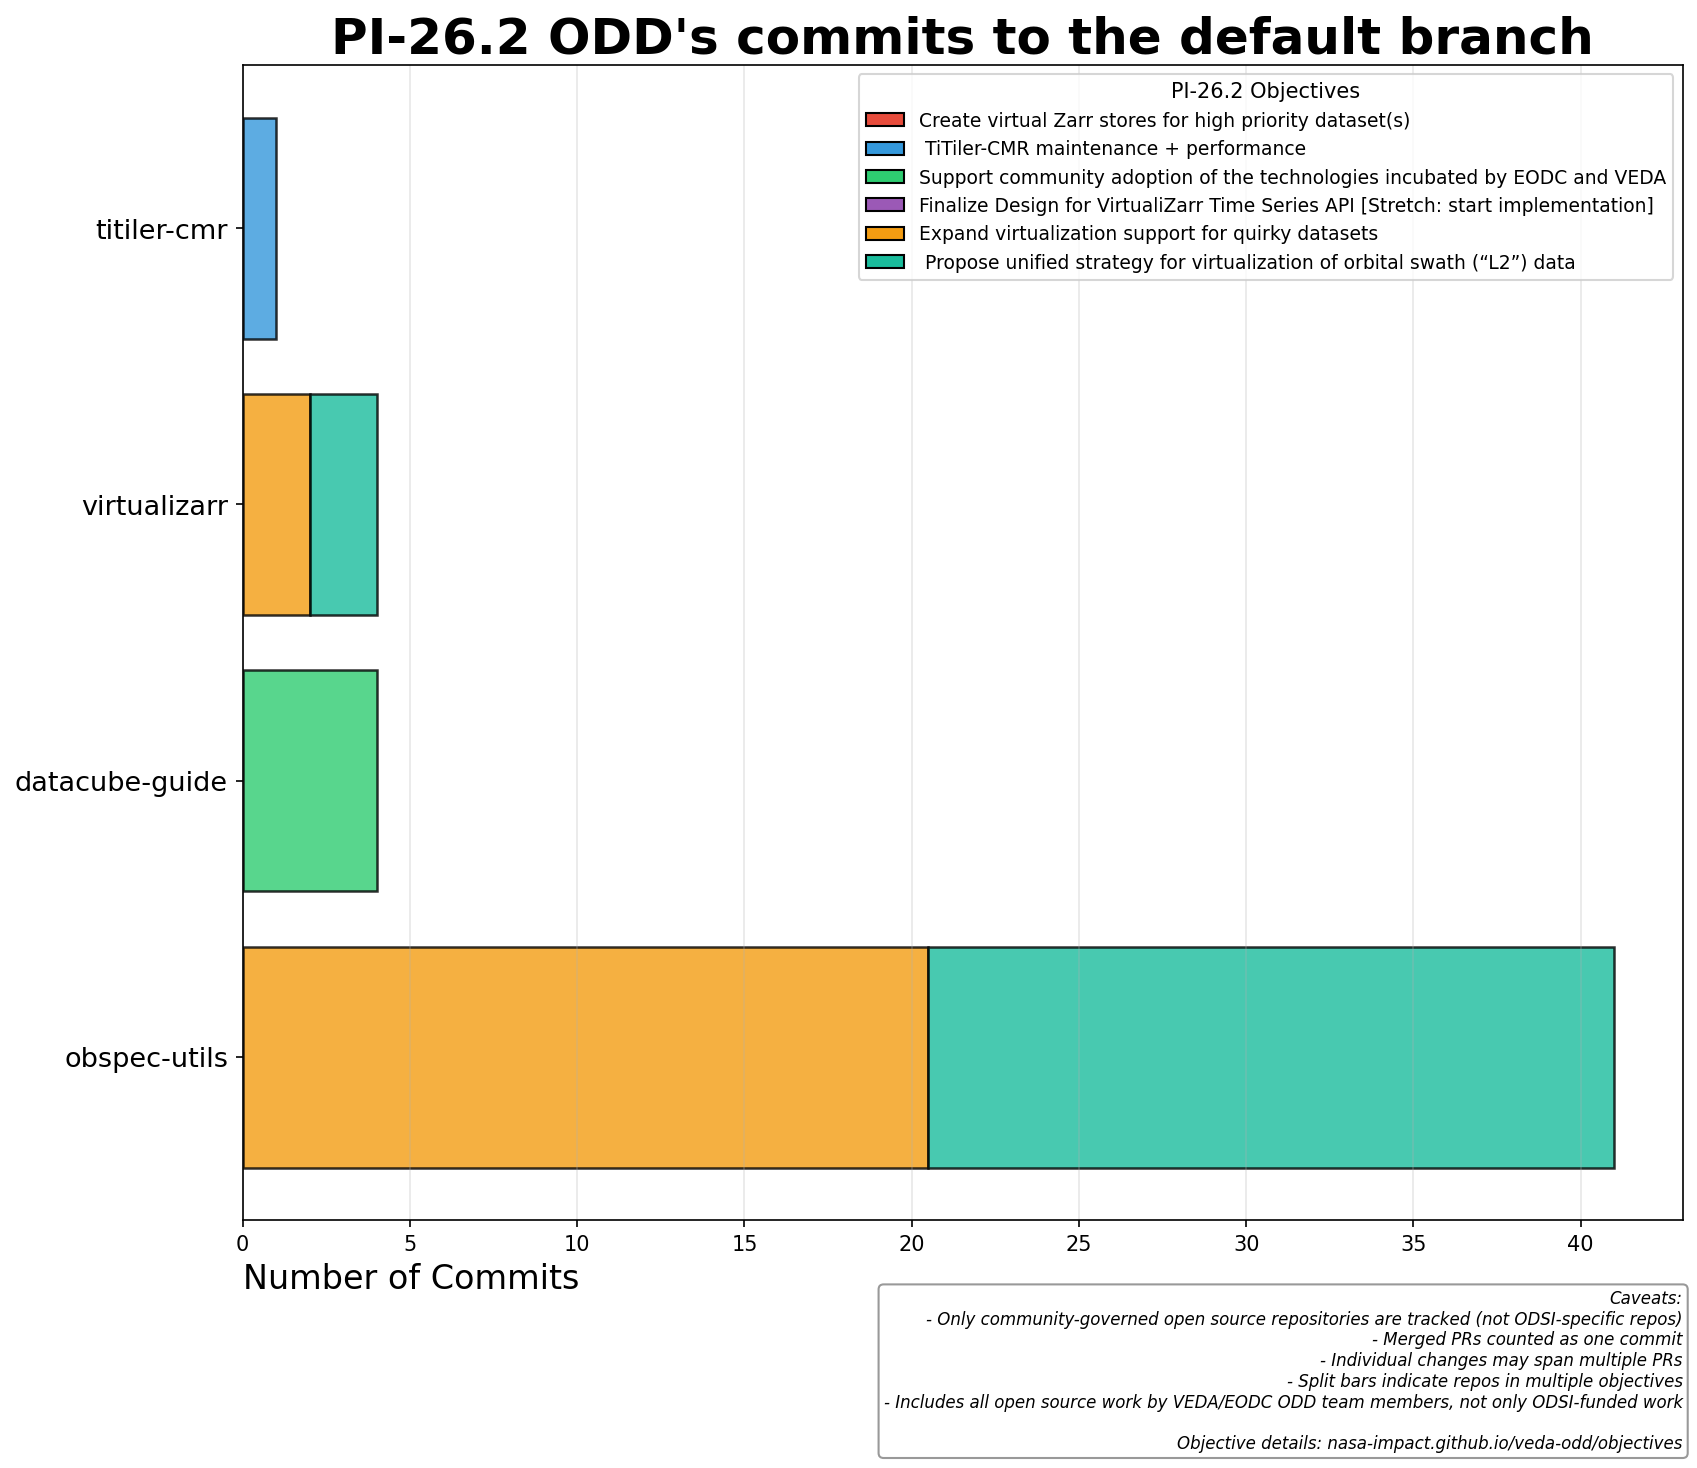
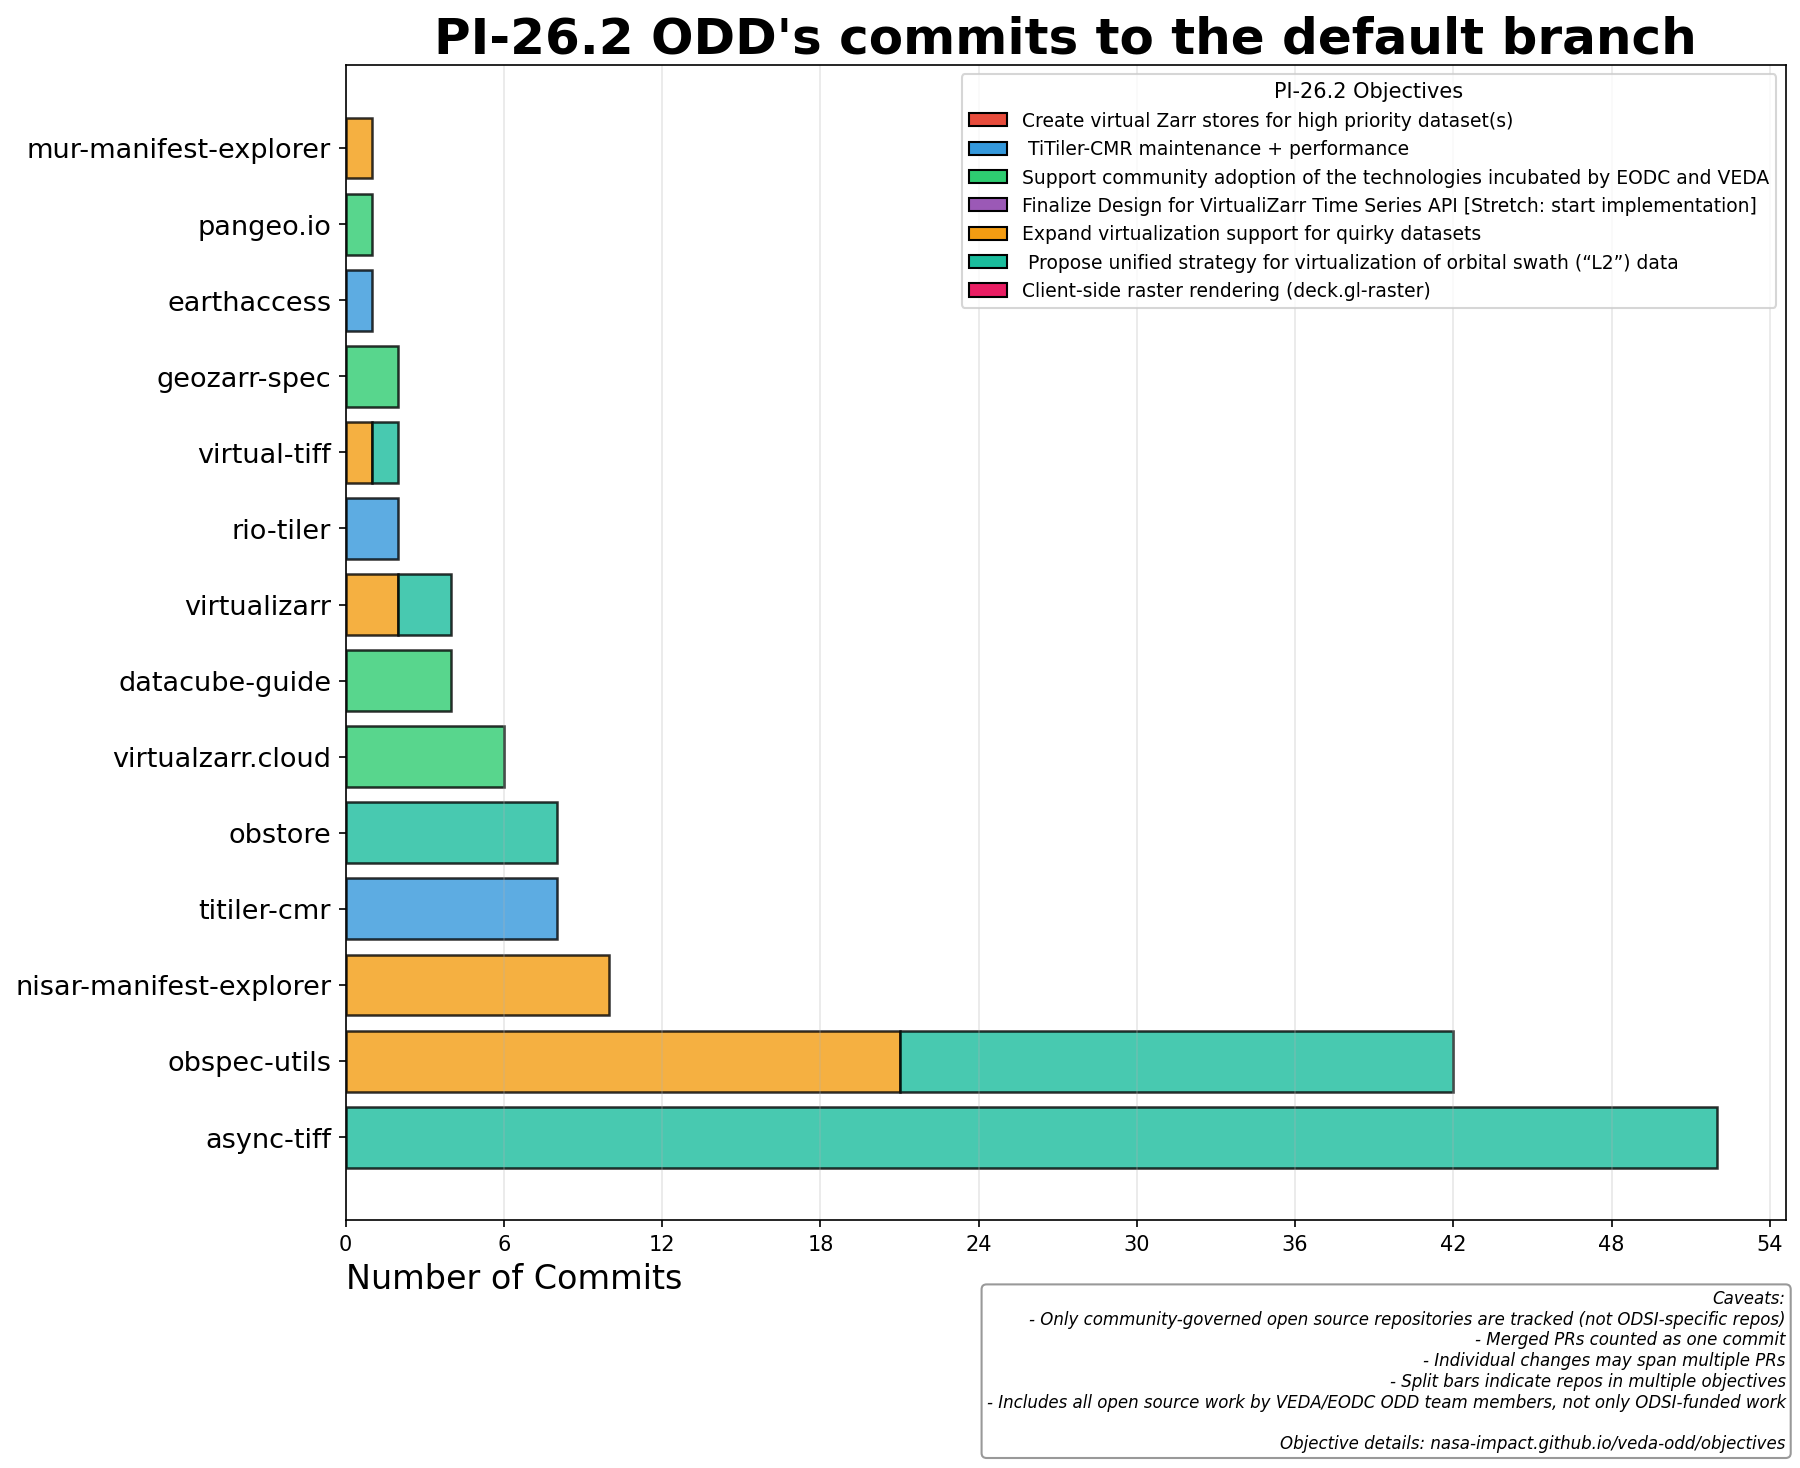
Updates for Sprint 1 (#320)

diff --git a/reports/config.py b/reports/config.py
@@ -369,10 +369,14 @@ OBJECTIVES = {
             "state": "open",
             "contributors": [
                 ("Chuck Daniels", "chuckwondo"),
+                ("Henry Rodman", "hrodmn"),
             ],
             "repos": [
                 ("developmentseed", "titiler"),
                 ("developmentseed", "titiler-cmr"),
+                ("nasa", "python_cmr"),
+                ("nsidc", "earthaccess"),
+                ("cogeotiff", "rio-tiler"),
             ],
         },
         {
@@ -380,6 +384,7 @@ OBJECTIVES = {
             "title": "ODD PI 26.2 Objective 3: 🤗 Support community adoption of the technologies incubated by EODC and VEDA",
             "state": "open",
             "contributors": [
+                ("Chuck Daniels", "chuckwondo"),
                 ("Max Jones", "maxrjones"),
                 ("Aimee Barciauskas", "abarciauskas-bgse"),
             ],
@@ -395,6 +400,7 @@ OBJECTIVES = {
                 ("pangeo-data", "pangeo.io"),
                 ("pangeo-data", "pangeo-docker-images"),
                 ("nasa-openscapes", "earthdata-cloud-cookbook"),
+                ("virtual-zarr", "virtualzarr.cloud"),
             ],
         },
         {
@@ -424,6 +430,8 @@ OBJECTIVES = {
                 ("virtual-zarr", "virtual-tiff"),
                 ("virtual-zarr", "hrrr-parser"),
                 ("developmentseed", "virtualizarr-data-pipelines"),
+                ("virtual-zarr", "nisar-manifest-explorer"),
+                ("virtual-zarr", "mur-manifest-explorer"),
             ],
         },
         {
@@ -438,6 +446,7 @@ OBJECTIVES = {
             "repos": [
                 ("zarr-developers", "virtualizarr"),
                 ("virtual-zarr", "obspec-utils"),
+                ("virtual-zarr", "virtual-tiff"),
                 ("developmentseed", "obstore"),
                 ("developmentseed", "obspec"),
                 ("developmentseed", "zarr-datafusion-search"),
@@ -445,6 +454,15 @@ OBJECTIVES = {
                 ("developmentseed", "async-tiff"),
                 ("datafusion-contrib", "arrow-zarr"),
             ],
+        },
+        {
+            "issue_number": 319,
+            "title": "ODD PI 26.2 Objective 7: Client-side raster rendering (deck.gl-raster)",
+            "state": "open",
+            "contributors": [
+                ("Kyle Barron", "kylebarron"),
+            ],
+            "repos": [],
         },
     ],
 }

diff --git a/reports/generate_config.py b/reports/generate_config.py
@@ -25,7 +25,7 @@ def get_objective_issues(g: Github, repo_name: str = "NASA-IMPACT/veda-odd"):
     query = f"repo:{repo_name} is:issue label:pi-25.2-objective,pi-25.3-objective,pi-25.4-objective,pi-26.1-objective,pi-26.2-objective,pi-26.3-objective,pi-26.4-objective"
     issues = g.search_issues(query)
 
-    if len(issues) < 1:
+    if issues.totalCount < 1:
         raise (ValueError, "No PI issue found")
     for issue in issues:
         pi = None

diff --git a/output.md b/output.md
@@ -1,0 +1,168 @@
+# Contributions: maxrjones
+**Period:** 2026-02-02..2026-02-08
+
+## Authored PRs
+
+### NASA-IMPACT/veda-odd (1 PRs)
+#311 [merged] maxrjones: Manually update config for pi-26.2
+  Created: 2026-02-02 | Closed: 2026-02-02
+  https://github.com/NASA-IMPACT/veda-odd/pull/311
+
+### developmentseed/ds-handbook (1 PRs)
+#169 [merged] maxrjones: Update who to contact for expense questions
+  Created: 2024-09-03 | Closed: 2024-09-03
+  https://github.com/developmentseed/ds-handbook/pull/169
+
+### englacial/magg (1 PRs)
+#6 [open] maxrjones: Update lambda function to write directly to zarr
+  Created: 2026-01-14 | Closed: 0001-01-01
+  https://github.com/englacial/magg/pull/6
+
+### virtual-zarr/obspec-utils (1 PRs)
+#60 [open] maxrjones: Add some NISAR exploration scripts
+  Created: 2026-01-29 | Closed: 0001-01-01
+  https://github.com/virtual-zarr/obspec-utils/pull/60
+
+### zarr-conventions/.github (1 PRs)
+#6 [merged] maxrjones: Add convention maturity details
+  Created: 2026-02-04 | Closed: 2026-02-04
+  https://github.com/zarr-conventions/.github/pull/6
+
+### zarr-developers/VirtualiZarr (2 PRs)
+#870 [open] maxrjones: WIP: Support complex64 _FillValue
+  Created: 2026-02-05 | Closed: 0001-01-01
+  https://github.com/zarr-developers/VirtualiZarr/pull/870
+
+### zarr-developers/VirtualiZarr (2 PRs)
+#831 [open] maxrjones: Add support for Python 3.14
+  Created: 2025-11-12 | Closed: 0001-01-01
+  https://github.com/zarr-developers/VirtualiZarr/pull/831
+
+### zarr-developers/geozarr-spec (2 PRs)
+#106 [merged] maxrjones: Add a few recent presentations to the resources section
+  Created: 2026-01-07 | Closed: 2026-02-03
+  https://github.com/zarr-developers/geozarr-spec/pull/106
+
+### zarr-developers/geozarr-spec (2 PRs)
+#105 [merged] maxrjones: Add links to geo-proj, spatial, and dggs conventions
+  Created: 2026-01-07 | Closed: 2026-02-03
+  https://github.com/zarr-developers/geozarr-spec/pull/105
+
+## PR Reviews
+
+### pangeo-data/pangeo.io (1 PRs reviewed)
+#119 [merged] by chuckwondo: Change showcase signup link to updated form
+  https://github.com/pangeo-data/pangeo.io/pull/119
+
+### xarray-contrib/rasterix (1 PRs reviewed)
+#68 [merged] by ljstrnadiii: feat: Support `geo-proj` and `spatial` Zarr Conventions
+  https://github.com/xarray-contrib/rasterix/pull/68
+
+### zarr-conventions/.github (1 PRs reviewed)
+#5 [merged] by clbarnes: Add license, uom conventions
+  https://github.com/zarr-conventions/.github/pull/5
+
+### zarr-conventions/template (1 PRs reviewed)
+#12 [merged] by clbarnes: Update JSONSchema version, add linting and formatting
+  https://github.com/zarr-conventions/template/pull/12
+
+### zarr-developers/VirtualiZarr (1 PRs reviewed)
+#868 [merged] by omshinde: Fixes error when running with Zarr-Python 3.1.0
+  https://github.com/zarr-developers/VirtualiZarr/pull/868
+
+## Issues Authored
+
+### NASA-IMPACT/veda-odd (1 issues)
+#316 [closed] maxrjones: NISAR Data Virtualization & Visualization Resources
+  Created: 2026-02-05 | Closed: 2026-02-05
+  https://github.com/NASA-IMPACT/veda-odd/issues/316
+
+### developmentseed/conferences-events (1 issues)
+#389 [open] maxrjones: European Geosciences Union (EGU) General Assembly 2026 | 3–8 May 2026 | Vienna, Austria
+  Created: 2025-11-18 | Closed: 0001-01-01
+  https://github.com/developmentseed/conferences-events/issues/389
+
+### developmentseed/out (1 issues)
+#3947 [open] maxrjones: Max out Feb 11
+  Created: 2026-02-06 | Closed: 0001-01-01
+  https://github.com/developmentseed/out/issues/3947
+
+### developmentseed/todos (1 issues)
+#445 [open] maxrjones: Max 2026 Q1
+  Created: 2026-01-29 | Closed: 0001-01-01
+  https://github.com/developmentseed/todos/issues/445
+
+### maxrjones/tech-tasks (1 issues)
+#36 [open] maxrjones: Review dependent arrays convention
+  Created: 2026-02-02 | Closed: 0001-01-01
+  https://github.com/maxrjones/tech-tasks/issues/36
+
+### virtual-zarr/obspec-utils (1 issues)
+#43 [open] maxrjones: Transfer to Development Seed GitHub org?
+  Created: 2026-01-27 | Closed: 0001-01-01
+  https://github.com/virtual-zarr/obspec-utils/issues/43
+
+### zarr-conventions/template (1 issues)
+#8 [closed] maxrjones: Add linters/formatters
+  Created: 2025-12-10 | Closed: 2026-02-03
+  https://github.com/zarr-conventions/template/issues/8
+
+### zarr-developers/VirtualiZarr (2 issues)
+#867 [closed] maxrjones: Fix error when running with Zarr-Python 3.1.0
+  Created: 2026-02-03 | Closed: 2026-02-03
+  https://github.com/zarr-developers/VirtualiZarr/issues/867
+
+### zarr-developers/VirtualiZarr (2 issues)
+#308 [open] maxrjones: Build virtual Zarr store using Xarray's dataset.to_zarr(region="...") model
+  Created: 2024-11-19 | Closed: 0001-01-01
+  https://github.com/zarr-developers/VirtualiZarr/issues/308
+
+## Issues Engaged (commented/assigned/mentioned)
+
+### NASA-IMPACT/active-maap-sprint (1 issues)
+#1359 [open] by omshinde: NISAR Virtualization Experiments - ODD
+  https://github.com/NASA-IMPACT/active-maap-sprint/issues/1359
+
+### NASA-IMPACT/veda-odd (4 issues)
+#309 [open] by abarciauskas-bgse: ODD PI 26.2 Objective 6: 🛰 Propose unified strategy for virtualization of orbital swath (“L2”) data
+  https://github.com/NASA-IMPACT/veda-odd/issues/309
+
+### NASA-IMPACT/veda-odd (4 issues)
+#308 [open] by abarciauskas-bgse: ODD PI 26.2 Objective 5: 🤪 Expand virtualization support for quirky datasets
+  https://github.com/NASA-IMPACT/veda-odd/issues/308
+
+### NASA-IMPACT/veda-odd (4 issues)
+#306 [open] by abarciauskas-bgse: ODD PI 26.2 Objective 3: 🤗 Support community adoption of the technologies incubated by EODC and VEDA
+  https://github.com/NASA-IMPACT/veda-odd/issues/306
+
+### NASA-IMPACT/veda-odd (4 issues)
+#130 [open] by abarciauskas-bgse: Implement plan, (presumably this will include edge caching and cache invalidation)
+  https://github.com/NASA-IMPACT/veda-odd/issues/130
+
+### developmentseed/communications (1 issues)
+#807 [closed] by abarciauskas-bgse: Podcast: Scene from Above
+  https://github.com/developmentseed/communications/issues/807
+
+### developmentseed/now (1 issues)
+#3794 [open] by weiji14: Vanuatu workshop 2025
+  https://github.com/developmentseed/now/issues/3794
+
+### developmentseed/out (1 issues)
+#3935 [open] by hrodmn: Henry out 2/2
+  https://github.com/developmentseed/out/issues/3935
+
+### developmentseed/titiler-cmr (1 issues)
+#85 [closed] by abarciauskas-bgse: Determine solution for EDL-based access to DAAC buckets
+  https://github.com/developmentseed/titiler-cmr/issues/85
+
+### englacial/magg (1 issues)
+#7 [open] by espg: Bedmap Use Case / example
+  https://github.com/englacial/magg/issues/7
+
+### zarr-developers/VirtualiZarr (1 issues)
+#851 [open] by TomNicholas: Generalize `ChunkManifest` to hold native chunks as well as virtual refs
+  https://github.com/zarr-developers/VirtualiZarr/issues/851
+
+### zarr-developers/zarr-python (1 issues)
+#3690 [open] by dsparber: Experimntal caching for v3 does not work with ByteRequest
+  https://github.com/zarr-developers/zarr-python/issues/3690

diff --git a/docs/objectives.md b/docs/objectives.md
@@ -7,11 +7,12 @@ This page tracks quarterly objectives and their related repositories across Prog
 | # | Objective | Contributors | Repos |
 |---|-----------|--------------|-------|
 | [#304](https://github.com/NASA-IMPACT/veda-odd/issues/304) | 🤖Create virtual Zarr stores for high priority dataset(s) | tylanderson | virtualizarr-data-pipelines |
-| [#305](https://github.com/NASA-IMPACT/veda-odd/issues/305) | 🛠 TiTiler-CMR maintenance + performance | chuckwondo | titiler, titiler-cmr |
-| [#306](https://github.com/NASA-IMPACT/veda-odd/issues/306) | 🤗 Support community adoption of the technologies incubated b... | maxrjones, abarciauskas-bgse | geozarr-spec, zarr-python, multiscales, geo-proj, spatial, datacube-guide, geozarr-examples, warp-resample-profiling, pangeo.io, pangeo-docker-images, earthdata-cloud-cookbook |
+| [#305](https://github.com/NASA-IMPACT/veda-odd/issues/305) | 🛠 TiTiler-CMR maintenance + performance | chuckwondo, hrodmn | titiler, titiler-cmr, python_cmr, earthaccess, rio-tiler |
+| [#306](https://github.com/NASA-IMPACT/veda-odd/issues/306) | 🤗 Support community adoption of the technologies incubated b... | chuckwondo, maxrjones, abarciauskas-bgse | geozarr-spec, zarr-python, multiscales, geo-proj, spatial, datacube-guide, geozarr-examples, warp-resample-profiling, pangeo.io, pangeo-docker-images, earthdata-cloud-cookbook, virtualzarr.cloud |
 | [#307](https://github.com/NASA-IMPACT/veda-odd/issues/307) | 📈 Finalize Design for VirtualiZarr Time Series API [Stretch:... | hrodmn | titiler, titiler-lambda-layer, titiler-md-demo |
-| [#308](https://github.com/NASA-IMPACT/veda-odd/issues/308) | 🤪 Expand virtualization support for quirky datasets | maxrjones | virtualizarr, zarr-python, obspec-utils, virtual-tiff, hrrr-parser, virtualizarr-data-pipelines |
-| [#309](https://github.com/NASA-IMPACT/veda-odd/issues/309) | 🛰 Propose unified strategy for virtualization of orbital sw... | sharkinsspatial, maxrjones, hrodmn | virtualizarr, obspec-utils, obstore, obspec, zarr-datafusion-search, geoarrow-rs, async-tiff, arrow-zarr |
+| [#308](https://github.com/NASA-IMPACT/veda-odd/issues/308) | 🤪 Expand virtualization support for quirky datasets | maxrjones | virtualizarr, zarr-python, obspec-utils, virtual-tiff, hrrr-parser, virtualizarr-data-pipelines, nisar-manifest-explorer, mur-manifest-explorer |
+| [#309](https://github.com/NASA-IMPACT/veda-odd/issues/309) | 🛰 Propose unified strategy for virtualization of orbital sw... | sharkinsspatial, maxrjones, hrodmn | virtualizarr, obspec-utils, virtual-tiff, obstore, obspec, zarr-datafusion-search, geoarrow-rs, async-tiff, arrow-zarr |
+| [#319](https://github.com/NASA-IMPACT/veda-odd/issues/319) | Client-side raster rendering (deck.gl-raster) | kylebarron | - |
 
 ---
 

diff --git a/reports/README.md b/reports/README.md
@@ -22,14 +22,6 @@ uv run generate_config.py
 
 This generates `objectives_config.py` with objectives and contributors from issues labeled `pi-*-objective`. You'll need to manually add repos to each objective, then copy to `config.py`.
 
-### Regenerating docs/objectives.md
-
-To regenerate the objectives documentation page from config:
-
-```bash
-uv run generate_docs.py
-```
-
 ## Generating data
 
 1. Run `uv run main.py` (uses 10 parallel workers by default)
@@ -38,6 +30,14 @@ uv run generate_docs.py
 `TIME_RANGE` is automatically set to the current fiscal quarter (Q1: Oct-Dec, Q2: Jan-Mar, Q3: Apr-Jun, Q4: Jul-Sep).
 
 The generated chart colors bars by PI objective (see [objectives page](https://nasa-impact.github.io/veda-odd/objectives) for details).
+
+### Regenerating docs/objectives.md
+
+To regenerate the objectives documentation page from config:
+
+```bash
+uv run generate_docs.py
+```
 
 ## Performance
 
